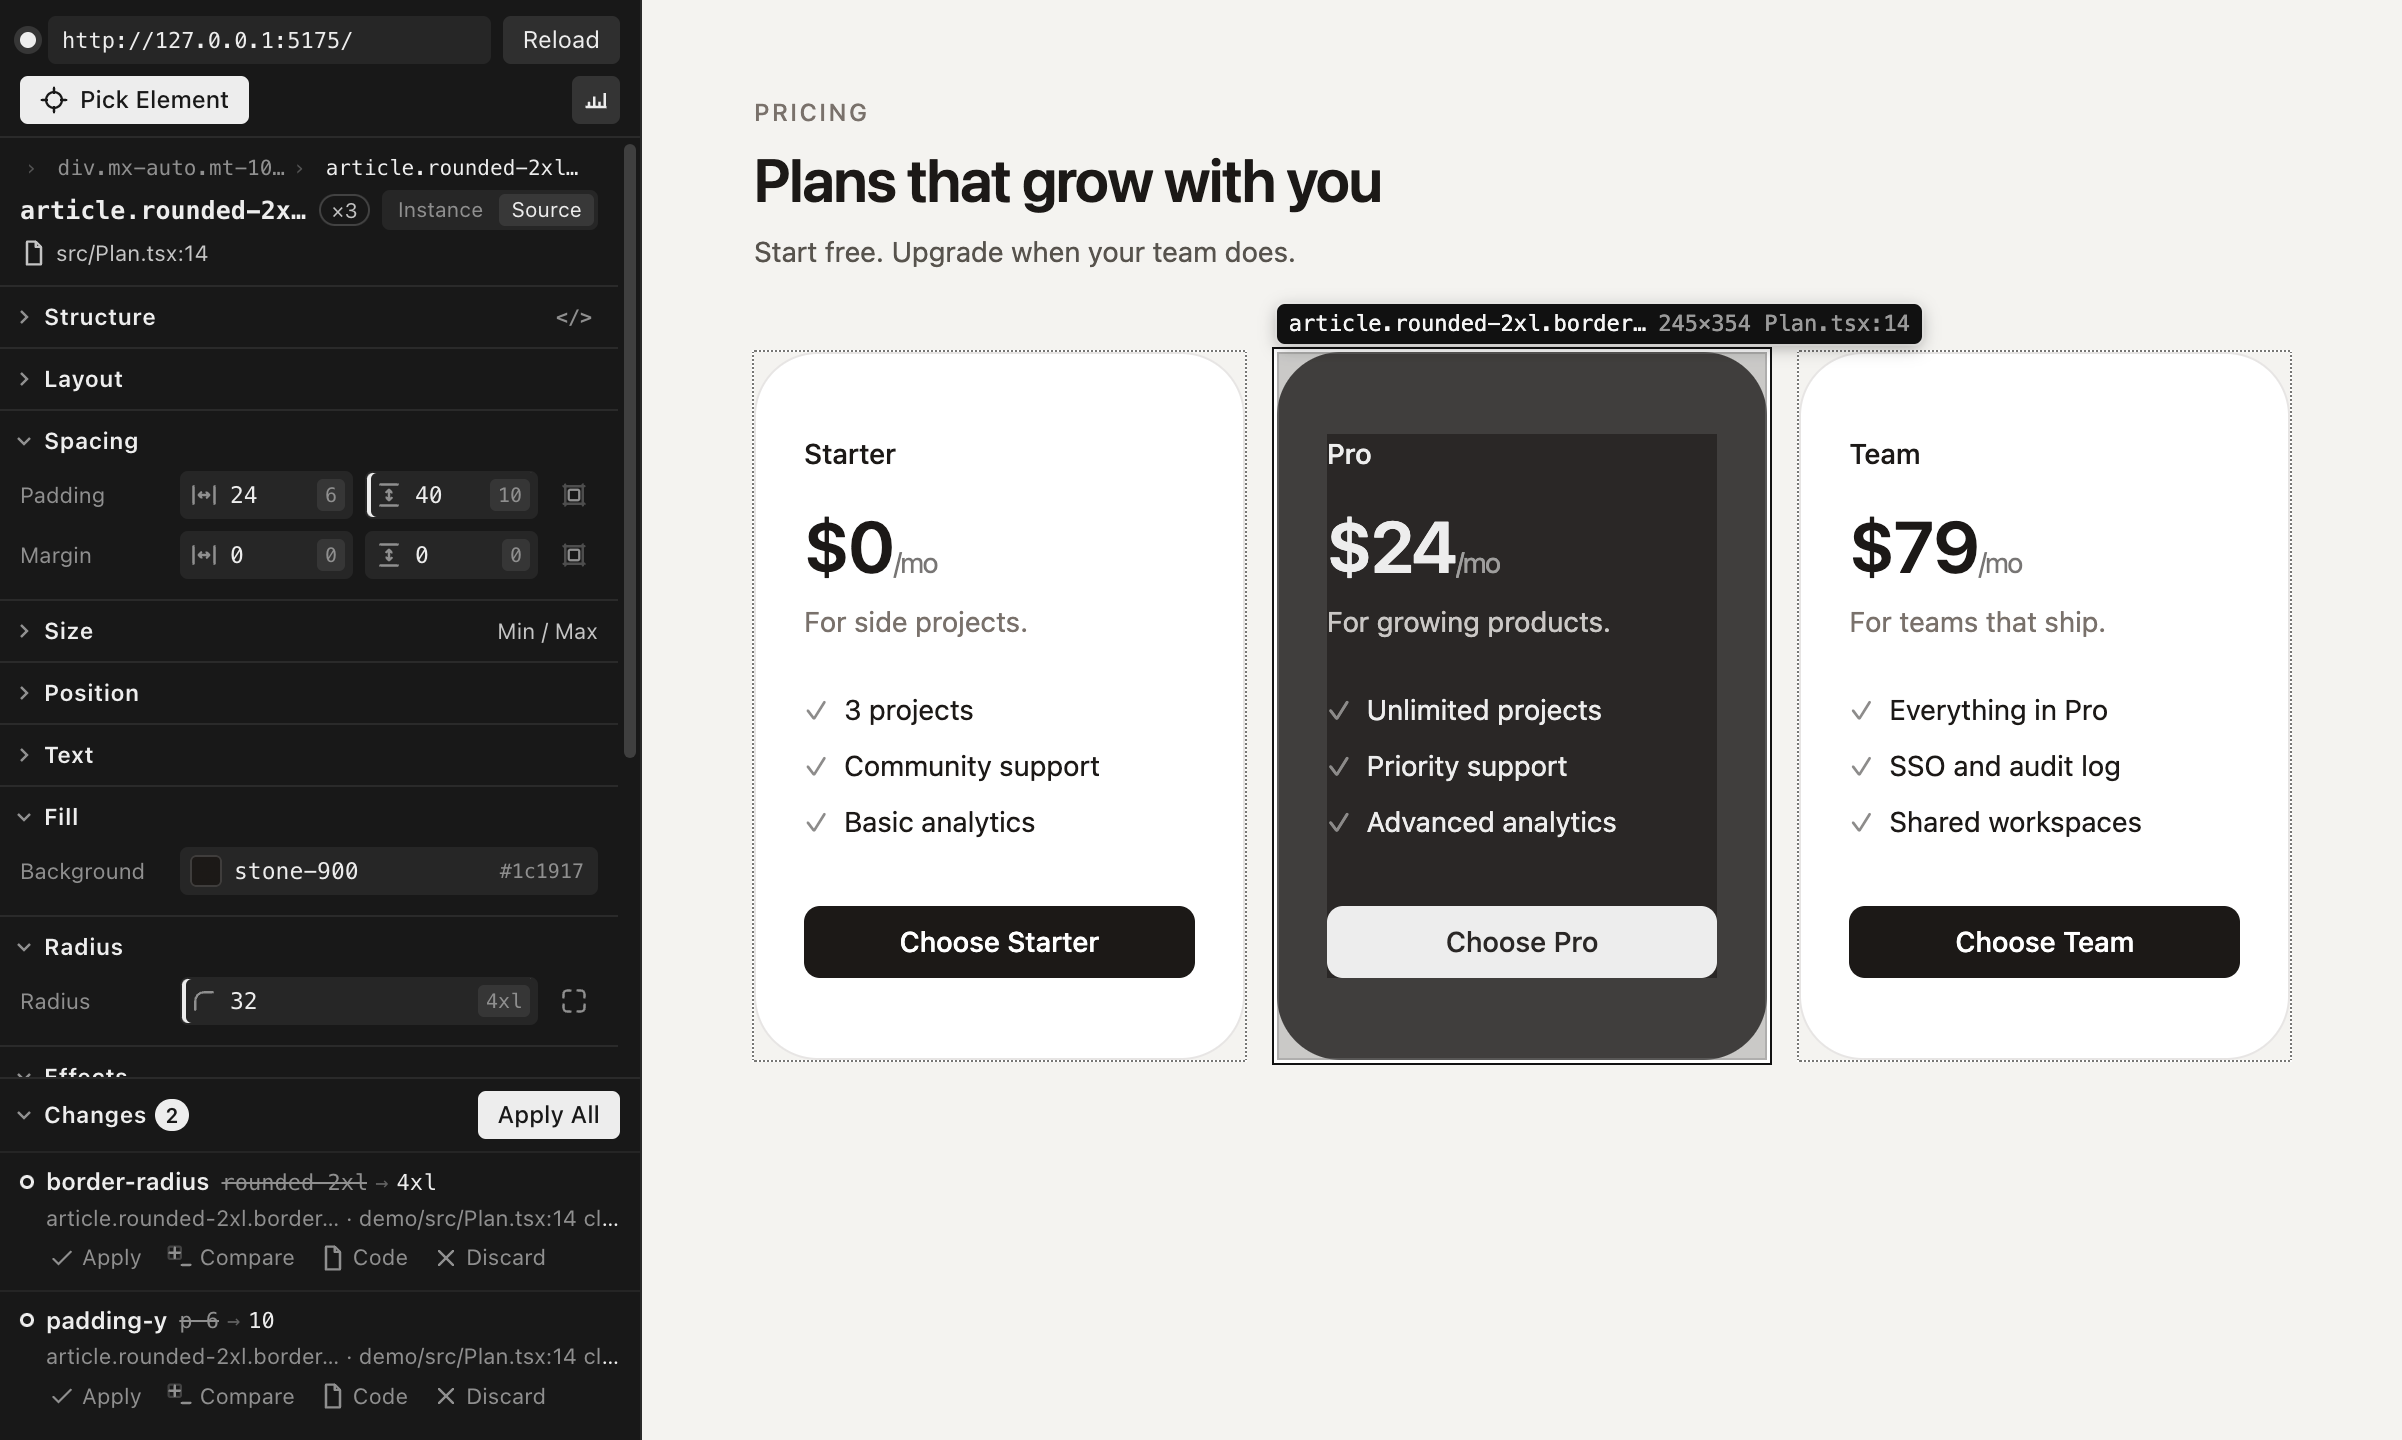
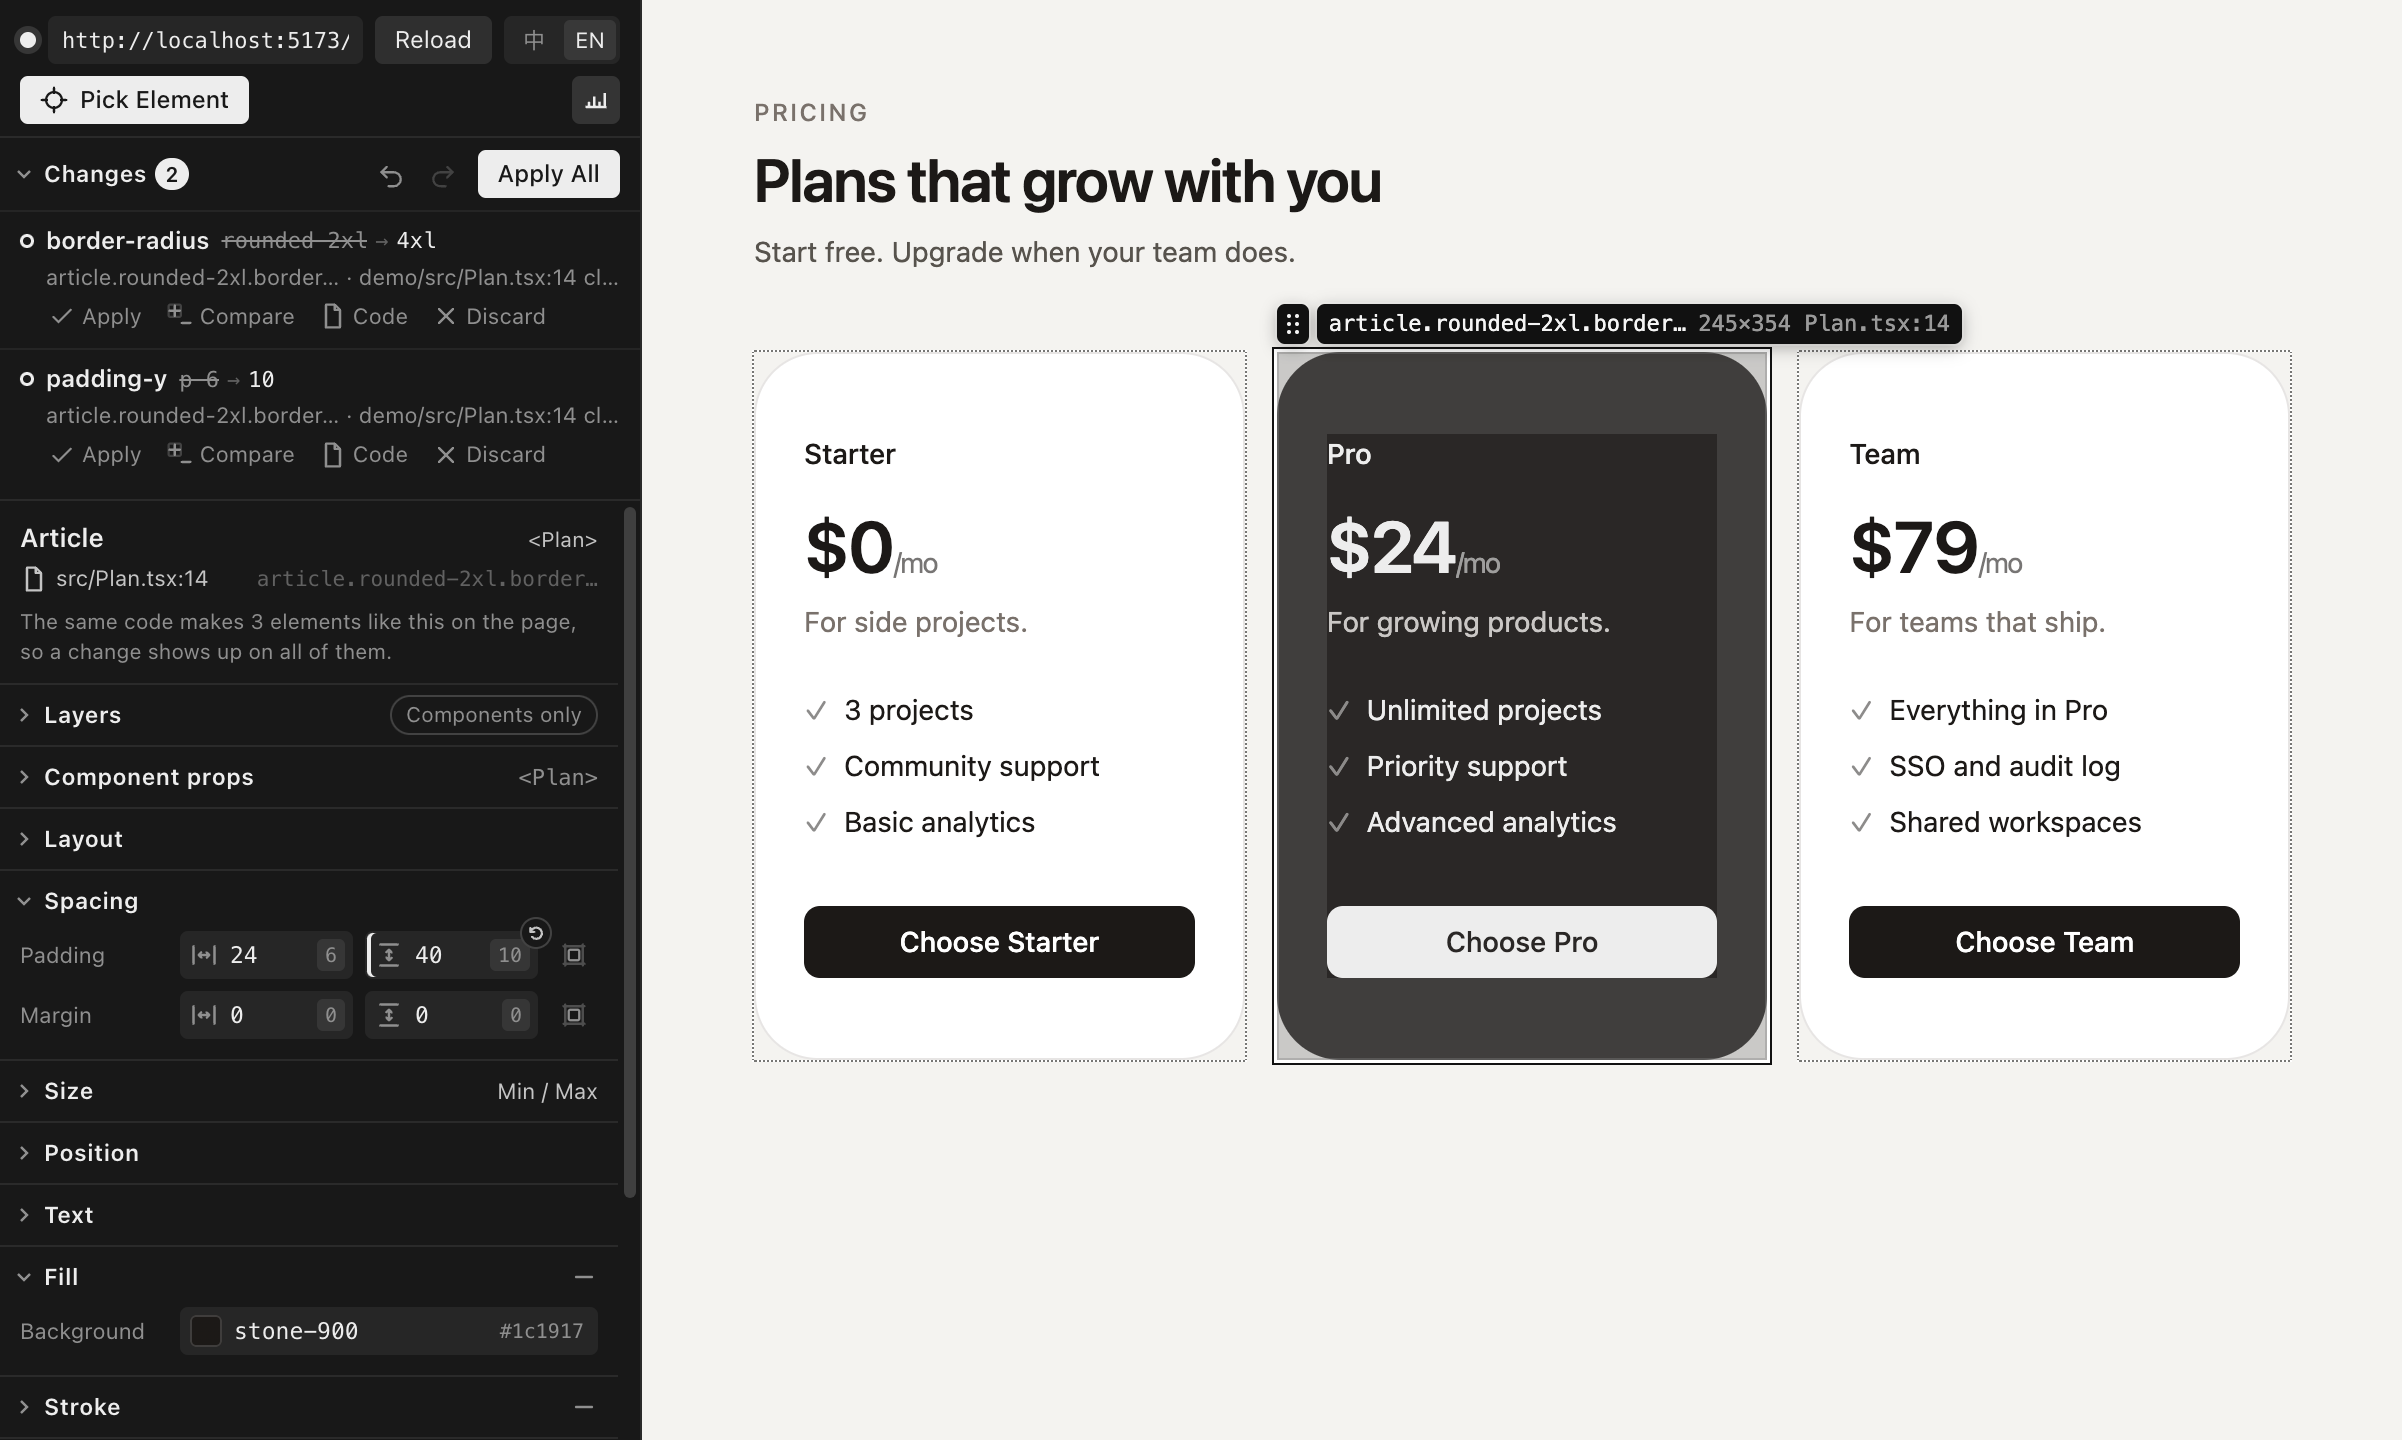
商店页：按新界面重录演示动图和总览截图
选中、拖动内边距和圆角、全部应用的流程不变，结尾多一拍点开改动清单看写入结果；总览图展开改动清单，标出两条改动的写回位置。README 的素材说明补上中英文各跑一遍自测、spec 的折叠状态要带 v: 1。

diff --git a/README.md b/README.md
@@ -80,8 +80,8 @@ CI 跑不了内置浏览器，端到端测试在本机的 Cursor 里跑：扩展
 
 `docs/media/` 里的动图和截图用真实的页面和真实的面板状态逐帧合成，演示页是 `fixtures/demo`（`pnpm --filter fixture-demo dev`）：
 
-1. **面板状态**：在开发宿主里跑自测，每一步之后用 `dumpState` 把面板状态导出到 `packages/panel/public/`（这里的 `*.json` 不进仓库）。状态里只有类名、文件位置、页面上的文字这类与面板语言无关的内容，同一份状态可以渲染两种语言。
-2. **面板帧**：启动面板调试页，打开 `shots.html?lang=en&spec=/shots.json`。spec 把各帧按网格排开渲染，`drag` 模拟按住数值字段拖动（会显示标尺和刻度），`point` 指定指针落点；渲染完后 `window.__shots` 给出每帧的位置、指针坐标和字段的值。格式见 `packages/panel/src/shots.tsx`。
+1. **面板状态**：在开发宿主里跑自测，每一步之后用 `dumpState` 把面板状态导出到 `packages/panel/public/`（这里的 `*.json` 不进仓库）。状态里有扩展按当前语言写的说明（比如交给 Agent 的原因），中英文各跑一遍，开头用 `locale` 步骤切换语言。
+2. **面板帧**：启动面板调试页，打开 `shots.html?lang=en&spec=/shots.json`。spec 把各帧按网格排开渲染，`drag` 模拟按住数值字段拖动（会显示标尺和刻度），`point` 指定指针落点；渲染完后 `window.__shots` 给出每帧的位置、指针坐标和字段的值。格式见 `packages/panel/src/shots.tsx`。`prefs` 是各分区的折叠状态，要带上 `v: 1`，否则面板会把改动清单折叠起来；一份 spec 里的帧共用同一套折叠状态，改动清单展开的帧（比如总览图）另写一份 spec。
 3. **页面帧**：在 Cursor 内置浏览器里打开演示页，用 `<script>` 加载 `packages/extension/media/bridge.js`，`__cssTunerBridge.boot(...)` 之后通过 `window.__CSS_TUNER__.call('select' | 'hover' | 'preview', ...)` 驱动选中、悬停和预览；应用之后的帧直接改源码，等热更新。
 4. **合成**：写一份分镜 JSON（每帧的面板裁切位置、页面截图、指针和停留时间），运行 `node scripts/media/compose.mjs <分镜文件>` 输出动图和静态截图。
 
